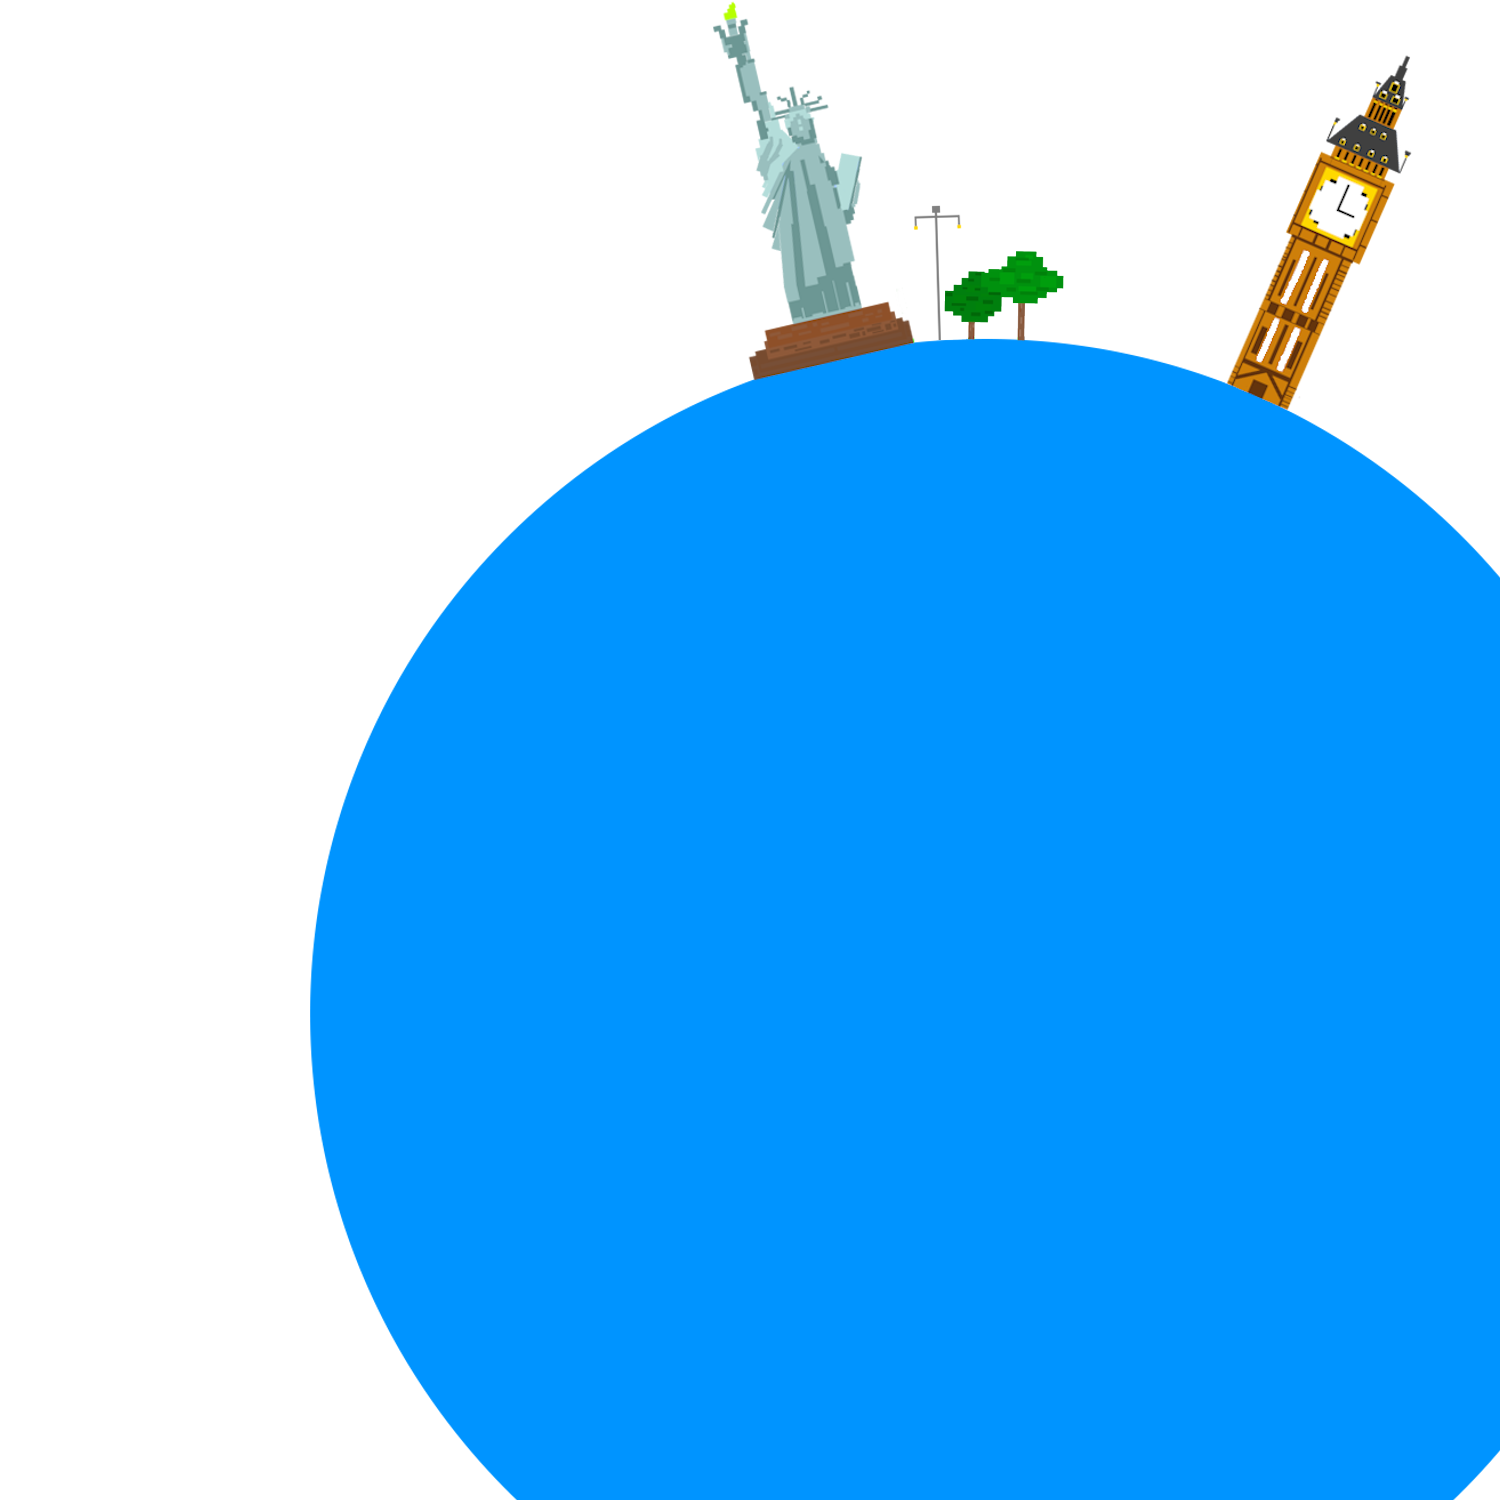
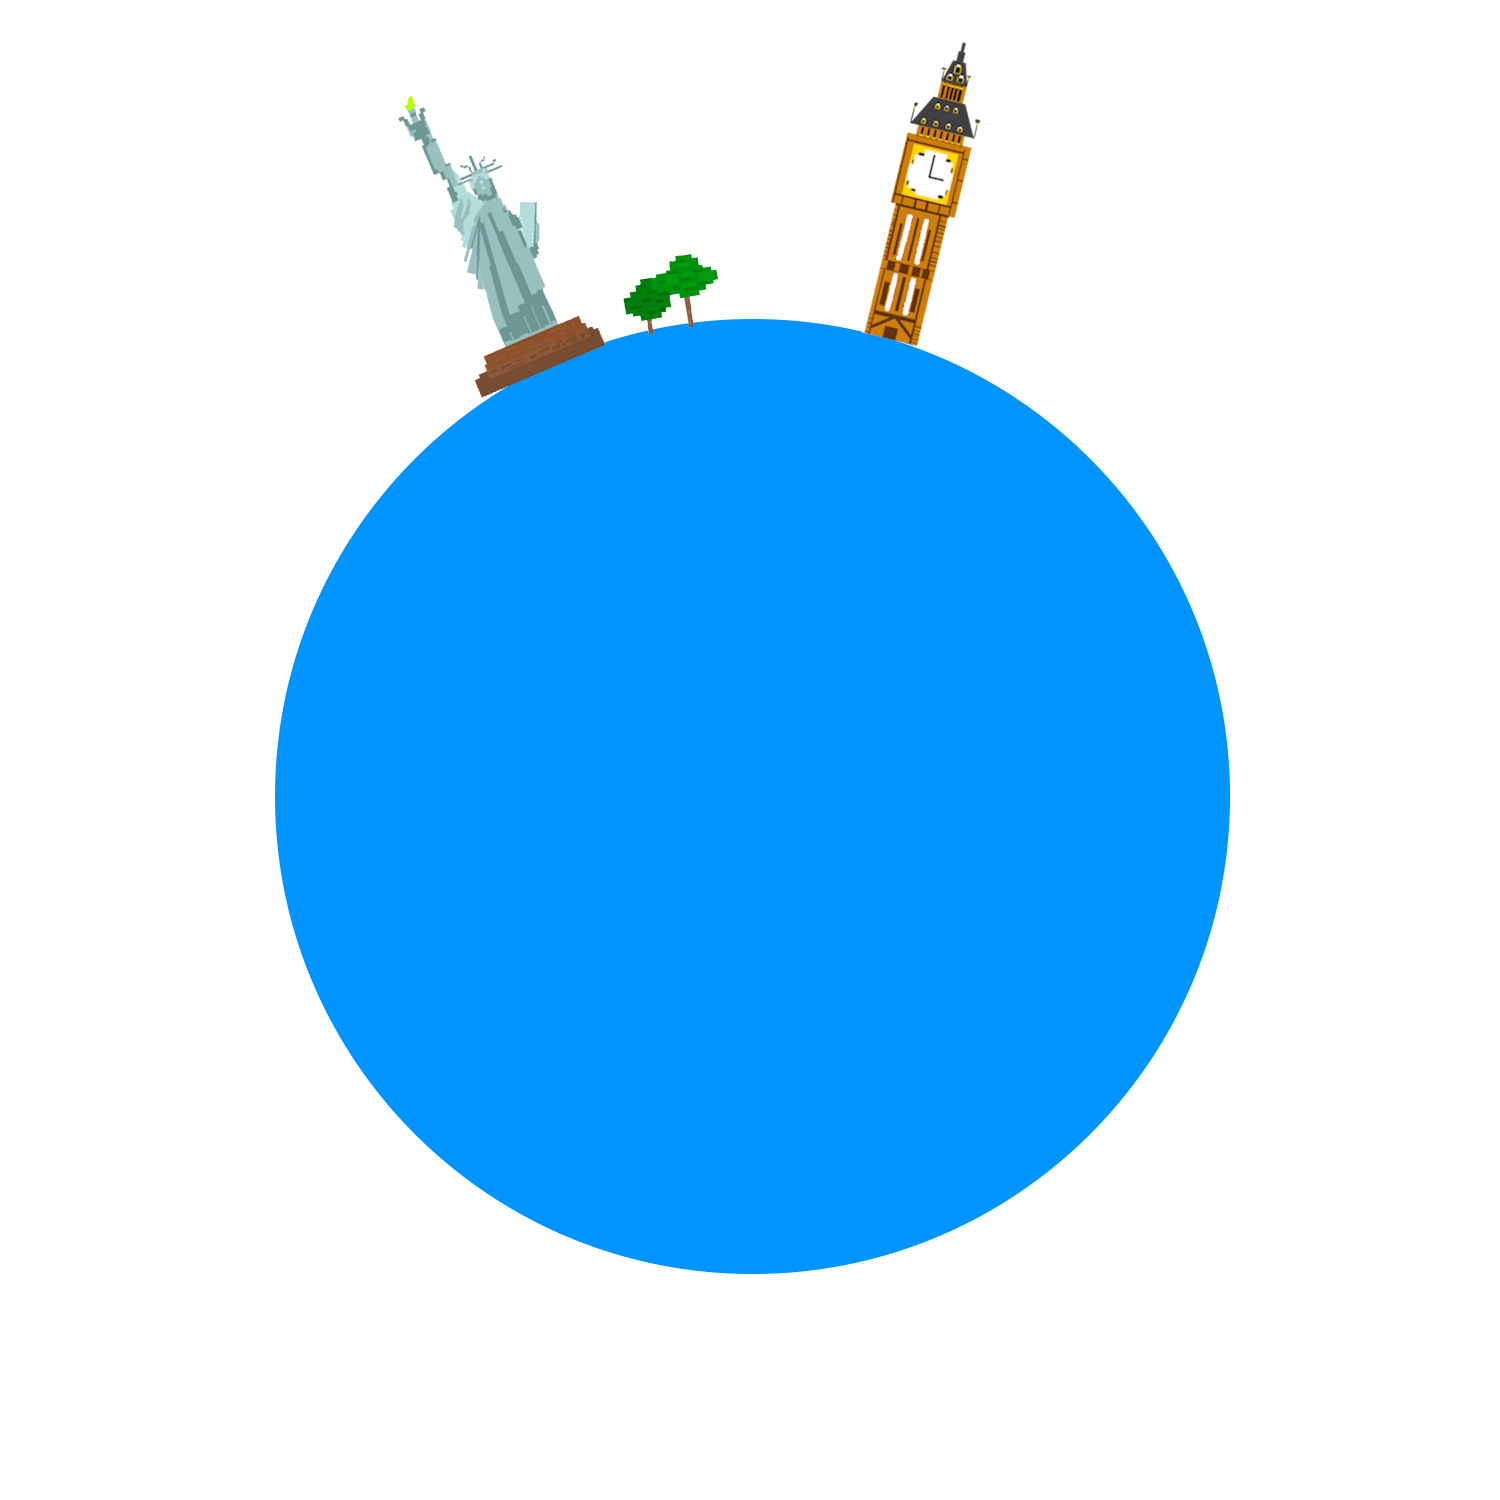
smooth rotation

diff --git a/main.js b/main.js
@@ -1,136 +1,13 @@
 
 
 
-class Game {
-    constructor(canvas, context){
-        this.canvas = canvas;
-        this.ctx = context;
-        this.width = this.canvas.width;
-        this.height = this.canvas.height;
-        this.baseHeight = 1080
-        this.ratio = this.height / this.baseHeight
-        //for sea obstacles
-        this.SeaObstacles = []
-        this.numberOfObstacles = 2000
-        this.score
-        this.gameOver 
-        this.World 
-        this.backgroundSpace
-        this.rotate = 0
-        //gravity pulls player down 1 pixel per frame
-        this.gravity = 0.5
-        
-
-        this.resize(window.innerWidth, window.innerHeight)
-
-        //for any viewport on any device
-        window.addEventListener('resize', e => {
-            this.resize(e.currentTarget.innerWidth, e.currentTarget.innerHeight)
-        })
-
-        
-        
-      
-        
-            
-           
-          
-
-
-
-    }
-    
-
-    resize(width, height){
-        this.canvas.width = width;
-        this.canvas.height = height;
-        this.width = this.canvas.width;
-        this.height = this.canvas.height;
-        this.ctx.fillStyle = 'red'
-        this.ctx.font = 'Bungee'
-        //for collision
-        this.ctx.lineWidth = 3;
-        this.ctx.strokeStyle = 'white'
-        
-        this.ratio = this.height / this.baseHeight
-
-        this.speed = 5 * this.ratio
-        //for scaling depnding on height
-        this.gravity = 0.5 * this.ratio
-        this.score = 0;
-        this.gameOver = false
-    }
-   
-    render(){
-        this.backgroundSpace = new Image()
-        this.backgroundSpace.src = "./assets/background/BackgroundSpace.png"
-        this.ctx.drawImage(backgroundSpace,0,0,this.canvas.width,this.canvas.height)
-
-        
-        //this.drawStatusText()
-        //this.player.update()
-        //this.player.draw()
-        //
-        this.rotate++
-        this.ctx.save()
-        this.World = new Image()
-        this.World.src = "./assets/background/World.png"
-        this.ctx.rotate(this.rotate*Math.PI/180);
-        this.ctx.drawImage(World,-200,-200,this.canvas.width,this.canvas.height)
-        this.ctx.restore()
-    }
-
-    
-
-
-    drawStatusText(){
-        
-        document.getElementById('Score').innerText = "Score:" + this.score
-        if(this.gameOver){
-            document.getElementById('PlayButtonHolderAfter').style.display = ""
-            if(localStorage.getItem('HighScore')){
-                if(this.score > localStorage.getItem('HighScore')){
-                    localStorage.setItem('HighScore', this.score)
-                }
-            } else {
-                localStorage.setItem('HighScore', this.score)
-            }
-
-
-            //update highscore if needed
-            if(this.score > Number(document.getElementById('HighScore').innerText.slice(-1))){
-                document.getElementById('HighScore').innerText = "High Score: " + this.score
-            }
-
-            
-           
-        }
-        
-    }
-
-    PlayButtonFunc(){
-        this.drawStatusText()
-        
-
-        
-        
-    }
-    
-
-}
 
 
 
 
 
 window.addEventListener('load', function(){
-    const canvas = this.document.getElementById('GameCanvas')
-    const ctx = canvas.getContext('2d');
-    canvas.width = 600
-    canvas.height = 600
     
-
-    const game = new Game(canvas, ctx)
 
 
     //high school initial
@@ -144,20 +21,20 @@ window.addEventListener('load', function(){
 
 
     //run function to update all draw objects then delete then run agina
-    function animate(){
-        ctx.clearRect(0,0, canvas.height, canvas.width)
-        game.render()
-        console.log('test')
-        
-         requestAnimationFrame(animate)
-    }
-    requestAnimationFrame(animate)
+    
 
 
     document.getElementById('PlayerButton').addEventListener('click', function(){
         document.getElementById('PlayerButton').style.display="none"
-        console.log('test')
-        game.score = 0
+        let i = 0
+        function animate(){
+         document.getElementById('World').style.transform ='rotate(' + i + 'deg)';
+         console.log('test')
+         i = i + 0.25
+            requestAnimationFrame(animate)
+       }
+       requestAnimationFrame(animate)
+       
     
     })
     

diff --git a/style.css b/style.css
@@ -18,7 +18,7 @@
     width: 100%;
     position: absolute;
     height: 100%;
-    display: none;
+    
 }
 
 
@@ -96,7 +96,7 @@
     display: -webkit-flex;
     display: flex;
     position: absolute;
-    z-index: 1111;
+    z-index: 1113;
   }
   
   figure button[name="play"] {
@@ -107,13 +107,13 @@
     border-radius: 100%;
     margin: auto;
     cursor: pointer;
-    z-index: 1111;
+    z-index: 1113;
   }
   figure button[name="play"]:focus {
     outline: 0;
     border: 1px solid hsl(110, 58%, 69%);
     box-shadow: 0 0 0 3px hsla(210, 76%, 57%, 0.5);
-    z-index: 1111;
+    z-index: 1113;
   }
   
   figure button[name="play"]::after {
@@ -172,8 +172,8 @@
 
   #backgroundSpace{
     position: absolute;
-    width: 100vw;
-    height: 100vh;
+    width: 100%;
+    height: 100%;
   }
 
 #World{
@@ -183,8 +183,8 @@
   width: 150vh;
   height: 150vh;
   margin: 15%;
-  bottom: -110%;
-
+  bottom: -120%;
+  z-index: 1112;
   
  
 }

diff --git a/index.html b/index.html
@@ -13,7 +13,7 @@
 </head>
 
 <body id="Body">
-    <canvas id="GameCanvas"></canvas>
+    
 
 
 <div id="ScoreHolder">
@@ -31,10 +31,10 @@
     <button name="playAfter" id="PlayerButtonAfter"></button>
 </figure>
 
-
+<img id="World" src="./assets/background/World.png">
+<img id="backgroundSpace" src="./assets/background/BackgroundSpace.png">
 <div class="assets">
-    <img id="World" src="./assets/background/World.png">
-    <img id="backgroundSpace" src="./assets/background/BackgroundSpace.png">
+
 </div>
 
 <script src="https://cdnjs.cloudflare.com/ajax/libs/jquery/3.7.1/jquery.min.js" integrity="sha512-v2CJ7UaYy4JwqLDIrZUI/4hqeoQieOmAZNXBeQyjo21dadnwR+8ZaIJVT8EE2iyI61OV8e6M8PP2/4hpQINQ/g==" crossorigin="anonymous" referrerpolicy="no-referrer"></script>
